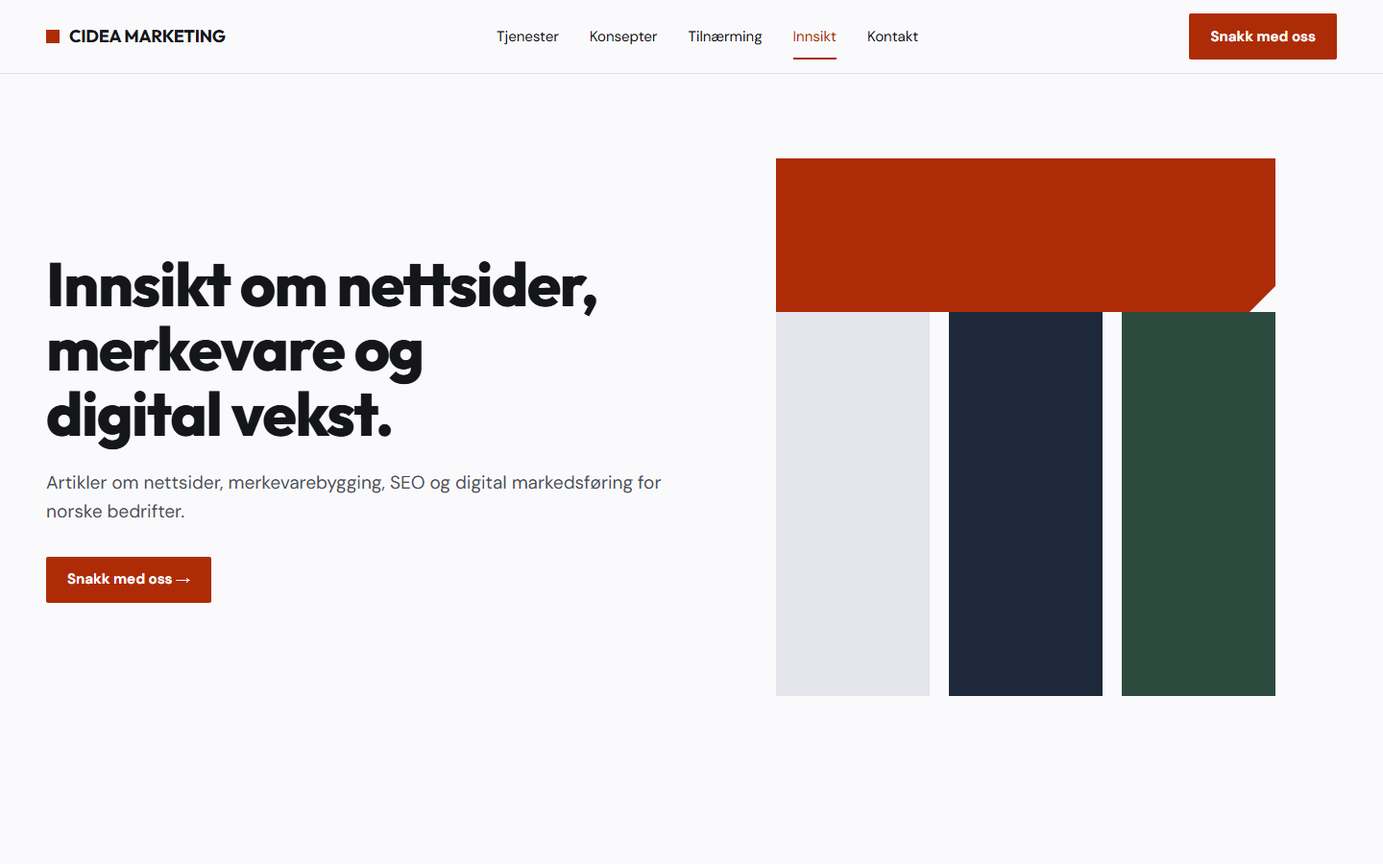
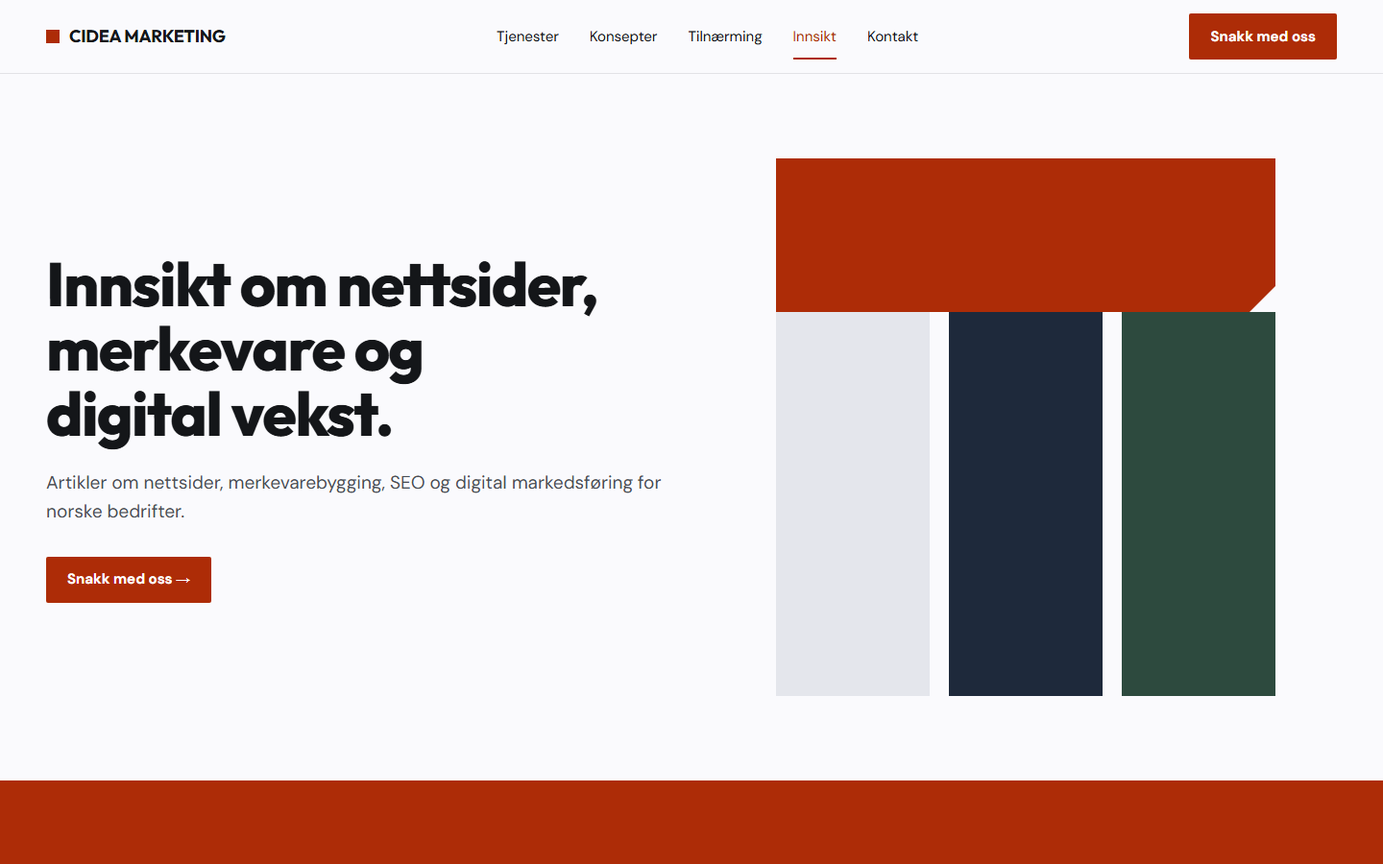
Phase 4.5: full QA (30/30 at 1440+390: contrast, language, CTA, aeoeaa, focus), licences, phase 4 README; CTA copy per ChatGPT decision

Changed region(s): [[0.0, 0.9022, 1.0, 1.0]]

diff --git a/docs/cinematic-pilot/phase4/preview/preview.css b/docs/cinematic-pilot/phase4/preview/preview.css
@@ -20,7 +20,7 @@ nav.hoved a { text-decoration: none; padding: 12px 0; }
 nav.hoved a[aria-current] { color: var(--dyp); box-shadow: inset 0 -2px var(--dyp); }
 .knapp { display: inline-flex; align-items: center; gap: 8px; min-height: 48px; padding: 0 22px; background: var(--dyp); color: var(--hvit); font: 700 15px/1 "DM Sans", sans-serif; text-decoration: none; border-radius: 2px; }
 .knapp:hover { background: var(--dyp-hover); }
-.knapp:focus-visible, a:focus-visible { outline: 3px solid var(--marine); outline-offset: 3px; }
+.knapp:focus-visible, a:focus-visible, button:focus-visible { outline: 3px solid var(--marine); outline-offset: 3px; }
 .lenke { font-weight: 700; color: var(--dyp); text-decoration: none; display: inline-flex; gap: 6px; align-items: center; min-height: 48px; }
 .meny { display: none; min-height: 44px; padding: 0 14px; border: 1px solid rgba(20,22,25,.2); background: var(--hvit); font: 700 14px "DM Sans", sans-serif; }
 .hero .wrap { display: grid; grid-template-columns: 1.05fr 0.95fr; gap: 64px; align-items: center; min-height: 640px; padding-top: 48px; padding-bottom: 48px; }
@@ -43,4 +43,22 @@ nav.hoved a[aria-current] { color: var(--dyp); box-shadow: inset 0 -2px var(--dy
   .hero .kunst .desktop { display: none; }
   .hero .kunst .mobil { display: block; }
   .hero .knapp { width: 100%; justify-content: center; }
+}
+
+/* Avsluttende CTA: dyp terrakotta (hvit tekst 6,69:1), lys knapp. Bunntekst med målt dempet tone. */
+.cta { background: var(--dyp); color: var(--hvit); }
+.cta .wrap { padding-top: 88px; padding-bottom: 88px; display: grid; grid-template-columns: 1.4fr auto; gap: 16px 48px; align-items: end; }
+.cta h2 { color: var(--hvit); font-size: 48px; line-height: 1.08; font-weight: 800; grid-column: 1; }
+.cta p { margin: 0; font-size: 19px; color: var(--hvit); max-width: 36em; grid-column: 1; }
+.cta .knapp.lys { background: var(--hvit); color: var(--dyp); grid-column: 2; grid-row: 1 / span 2; }
+.cta .knapp.lys:hover { background: #F4F5F8; }
+.cta .knapp.lys:focus-visible { outline-color: var(--hvit); }
+footer.bunn .wrap { display: flex; justify-content: space-between; align-items: center; padding-top: 28px; padding-bottom: 28px; }
+footer.bunn small { color: var(--dempet); font-size: 14px; }
+@media (max-width: 760px) {
+  .cta .wrap { grid-template-columns: 1fr; padding-top: 56px; padding-bottom: 56px; }
+  .cta h2 { font-size: 30px; }
+  .cta p { font-size: 17px; }
+  .cta .knapp.lys { grid-column: 1; grid-row: auto; width: 100%; justify-content: center; }
+  footer.bunn .wrap { flex-direction: column; gap: 8px; align-items: flex-start; }
 }

diff --git a/docs/cinematic-pilot/phase4/preview/nettsider.html b/docs/cinematic-pilot/phase4/preview/nettsider.html
@@ -9,4 +9,5 @@
 <div class="tekst"><p class="krumme">Tjenester / Nettsider</p><h1>Nettsider som gjør bedriften enklere å forstå, finne og velge.</h1><p class="ingress">Vi lager strategi, struktur, design og utvikling for en fokusert bedriftsnettside – og kan videreutvikle den etter lansering.</p>
 <div class="handling"><a class="knapp" href="#kontakt">Snakk med oss →</a><a class="lenke" href="#">Hva vi leverer →</a></div></div>
 <div class="kunst"><div class="desktop"><svg xmlns="http://www.w3.org/2000/svg" viewBox="0 0 560 640" role="img" aria-label="Cidea-motiv: Rutenett – liggende flater forskjøvet som sider og skjermer"><rect data-i="0" x="0" y="60" width="400" height="240" fill="#E4E6EC"/><rect data-i="1" x="80" y="200" width="400" height="240" fill="#2D4A3E"/><polygon data-i="2" data-hakk="1" points="160,340 560,340 560,557 517,600 160,600" fill="#1E293B"/><rect data-i="3" x="340" y="0" width="120" height="120" fill="#AD2C07"/></svg></div><div class="mobil"><svg xmlns="http://www.w3.org/2000/svg" viewBox="0 0 390 280" role="img" aria-label="Cidea-motiv: Rutenett – liggende flater forskjøvet som sider og skjermer"><rect data-i="0" x="0" y="0" width="240" height="110" fill="#E4E6EC"/><rect data-i="1" x="60" y="60" width="240" height="110" fill="#2D4A3E"/><polygon data-i="2" data-hakk="1" points="120,120 380,120 380,237 357,260 120,260" fill="#1E293B"/><rect data-i="3" x="280" y="20" width="70" height="70" fill="#AD2C07"/></svg></div></div>
-</div></section></main></body></html>
+</div></section><section class="cta" id="kontakt"><div class="wrap"><h2>Klar for et overbevisende digitalt uttrykk?</h2><p>Fortell oss kort om bedriften og hva dere ønsker hjelp med. Vi tar kontakt på e-post.</p><a class="knapp lys" href="#">Snakk med oss →</a></div></section></main>
+<footer class="bunn"><div class="wrap"><span class="ordmerke">CIDEA MARKETING</span><small>© 2026 Cidea Marketing</small></div></footer></body></html>

diff --git a/docs/cinematic-pilot/phase4/preview/digital-markedsforing.html b/docs/cinematic-pilot/phase4/preview/digital-markedsforing.html
@@ -9,4 +9,5 @@
 <div class="tekst"><p class="krumme">Tjenester / Digital markedsføring</p><h1>Digital markedsføring rundt et tydelig mål.</h1><p class="ingress">Vi lager strategi, innhold og kampanjer og optimaliserer dem rundt et definert kommersielt mål. Annonsebudsjett kommer i tillegg.</p>
 <div class="handling"><a class="knapp" href="#kontakt">Snakk med oss →</a><a class="lenke" href="#">Hva vi leverer →</a></div></div>
 <div class="kunst"><div class="desktop"><svg xmlns="http://www.w3.org/2000/svg" viewBox="0 0 560 640" role="img" aria-label="Cidea-motiv: Spredning – ett mål som fordeles ut i flere kanaler"><rect data-i="0" x="240" y="40" width="280" height="140" fill="#1E293B"/><rect data-i="1" x="240" y="240" width="320" height="140" fill="#AD2C07"/><rect data-i="2" x="240" y="440" width="220" height="140" fill="#2D4A3E"/><polygon data-i="3" data-hakk="1" points="0,0 280,0 280,593 233,640 0,640" fill="#141619"/></svg></div><div class="mobil"><svg xmlns="http://www.w3.org/2000/svg" viewBox="0 0 390 280" role="img" aria-label="Cidea-motiv: Spredning – ett mål som fordeles ut i flere kanaler"><rect data-i="0" x="80" y="10" width="220" height="70" fill="#1E293B"/><rect data-i="1" x="80" y="100" width="310" height="70" fill="#AD2C07"/><rect data-i="2" x="80" y="190" width="180" height="70" fill="#2D4A3E"/><polygon data-i="3" data-hakk="1" points="0,0 100,0 100,263 83,280 0,280" fill="#141619"/></svg></div></div>
-</div></section></main></body></html>
+</div></section><section class="cta" id="kontakt"><div class="wrap"><h2>Klar for et overbevisende digitalt uttrykk?</h2><p>Fortell oss kort om bedriften og hva dere ønsker hjelp med. Vi tar kontakt på e-post.</p><a class="knapp lys" href="#">Snakk med oss →</a></div></section></main>
+<footer class="bunn"><div class="wrap"><span class="ordmerke">CIDEA MARKETING</span><small>© 2026 Cidea Marketing</small></div></footer></body></html>

diff --git a/docs/cinematic-pilot/phase4/preview/forside.html b/docs/cinematic-pilot/phase4/preview/forside.html
@@ -9,4 +9,5 @@
 <div class="tekst"><h1>Nettsider og helhetlig markedsføring som utvikles over tid.</h1><p class="ingress">Vi bygger nettsider, former merkevarer og driver målrettet SEO og digital markedsføring for bedrifter som ønsker kontinuerlig forbedring.</p>
 <div class="handling"><a class="knapp" href="#kontakt">Snakk med oss →</a><a class="lenke" href="#">Se konseptet →</a></div></div>
 <div class="kunst"><div class="desktop"><svg xmlns="http://www.w3.org/2000/svg" viewBox="0 0 560 640" role="img" aria-label="Cidea-motiv: Sammenføyning – flere fagfelt låst sammen rundt én kjerne"><polygon data-i="0" data-hakk="1" points="80,100 460,100 460,457 397,520 80,520" fill="#AD2C07"/><rect data-i="1" x="0" y="380" width="240" height="260" fill="#1E293B"/><rect data-i="2" x="320" y="0" width="240" height="200" fill="#2D4A3E"/><rect data-i="3" x="180" y="220" width="160" height="160" fill="#E4E6EC"/></svg></div><div class="mobil"><svg xmlns="http://www.w3.org/2000/svg" viewBox="0 0 390 280" role="img" aria-label="Cidea-motiv: Sammenføyning – flere fagfelt låst sammen rundt én kjerne"><polygon data-i="0" data-hakk="1" points="90,30 300,30 300,205 265,240 90,240" fill="#AD2C07"/><rect data-i="1" x="0" y="130" width="130" height="150" fill="#1E293B"/><rect data-i="2" x="250" y="0" width="140" height="90" fill="#2D4A3E"/></svg></div></div>
-</div></section></main></body></html>
+</div></section><section class="cta" id="kontakt"><div class="wrap"><h2>Klar for et overbevisende digitalt uttrykk?</h2><p>Fortell oss kort om bedriften og hva dere ønsker hjelp med. Vi tar kontakt på e-post.</p><a class="knapp lys" href="#">Snakk med oss →</a></div></section></main>
+<footer class="bunn"><div class="wrap"><span class="ordmerke">CIDEA MARKETING</span><small>© 2026 Cidea Marketing</small></div></footer></body></html>

diff --git a/docs/cinematic-pilot/phase4/preview/merkevarebygging.html b/docs/cinematic-pilot/phase4/preview/merkevarebygging.html
@@ -9,4 +9,5 @@
 <div class="tekst"><p class="krumme">Tjenester / Merkevarebygging</p><h1>Merkevarebygging som gjør bedriften lettere å kjenne igjen.</h1><p class="ingress">Vi lager et praktisk visuelt fundament med retning for logobruk, typografi, farger og hvordan merkevaren uttrykker seg.</p>
 <div class="handling"><a class="knapp" href="#kontakt">Snakk med oss →</a><a class="lenke" href="#">Hva vi leverer →</a></div></div>
 <div class="kunst"><div class="desktop"><svg xmlns="http://www.w3.org/2000/svg" viewBox="0 0 560 640" role="img" aria-label="Cidea-motiv: Stempel – ett tydelig kjennetegn med et lite merke festet i hjørnet"><rect data-i="0" x="0" y="400" width="200" height="200" fill="#E4E6EC"/><polygon data-i="1" data-hakk="1" points="60,100 500,100 500,467 427,540 60,540" fill="#AD2C07"/><rect data-i="2" x="360" y="20" width="180" height="180" fill="#1E293B"/></svg></div><div class="mobil"><svg xmlns="http://www.w3.org/2000/svg" viewBox="0 0 390 280" role="img" aria-label="Cidea-motiv: Stempel – ett tydelig kjennetegn med et lite merke festet i hjørnet"><rect data-i="0" x="40" y="160" width="100" height="100" fill="#E4E6EC"/><polygon data-i="1" data-hakk="1" points="100,30 320,30 320,213 283,250 100,250" fill="#AD2C07"/><rect data-i="2" x="260" y="0" width="90" height="90" fill="#1E293B"/></svg></div></div>
-</div></section></main></body></html>
+</div></section><section class="cta" id="kontakt"><div class="wrap"><h2>Klar for et overbevisende digitalt uttrykk?</h2><p>Fortell oss kort om bedriften og hva dere ønsker hjelp med. Vi tar kontakt på e-post.</p><a class="knapp lys" href="#">Snakk med oss →</a></div></section></main>
+<footer class="bunn"><div class="wrap"><span class="ordmerke">CIDEA MARKETING</span><small>© 2026 Cidea Marketing</small></div></footer></body></html>

diff --git a/docs/cinematic-pilot/phase4/preview/404.html b/docs/cinematic-pilot/phase4/preview/404.html
@@ -9,4 +9,5 @@
 <div class="tekst"><h1>Vi finner ikke denne siden</h1><p class="ingress">Siden kan være flyttet eller slettet. Gå til forsiden eller ta kontakt med oss.</p>
 <div class="handling"><a class="knapp" href="#kontakt">Snakk med oss →</a><a class="lenke" href="#">Til forsiden →</a></div></div>
 <div class="kunst"><div class="desktop"><svg xmlns="http://www.w3.org/2000/svg" viewBox="0 0 560 640" role="img" aria-label="Cidea-motiv: Forskyvning – ett plan har glidd ut av rutenettet"><rect data-i="0" x="0" y="80" width="240" height="240" fill="#1E293B"/><rect data-i="1" x="240" y="80" width="240" height="240" fill="#2D4A3E"/><rect data-i="2" x="0" y="320" width="240" height="240" fill="#E4E6EC"/><polygon data-i="3" data-hakk="1" points="260,300 520,300 520,517 477,560 260,560" fill="#AD2C07"/></svg></div><div class="mobil"><svg xmlns="http://www.w3.org/2000/svg" viewBox="0 0 390 280" role="img" aria-label="Cidea-motiv: Forskyvning – ett plan har glidd ut av rutenettet"><rect data-i="0" x="0" y="20" width="100" height="120" fill="#1E293B"/><rect data-i="1" x="100" y="20" width="100" height="120" fill="#2D4A3E"/><rect data-i="2" x="0" y="140" width="100" height="120" fill="#E4E6EC"/><polygon data-i="3" data-hakk="1" points="110,130 240,130 240,238 218,260 110,260" fill="#AD2C07"/></svg></div></div>
-</div></section></main></body></html>
+</div></section><section class="cta" id="kontakt"><div class="wrap"><h2>Klar for et overbevisende digitalt uttrykk?</h2><p>Fortell oss kort om bedriften og hva dere ønsker hjelp med. Vi tar kontakt på e-post.</p><a class="knapp lys" href="#">Snakk med oss →</a></div></section></main>
+<footer class="bunn"><div class="wrap"><span class="ordmerke">CIDEA MARKETING</span><small>© 2026 Cidea Marketing</small></div></footer></body></html>

diff --git a/docs/cinematic-pilot/phase4/preview/innsikt.html b/docs/cinematic-pilot/phase4/preview/innsikt.html
@@ -9,4 +9,5 @@
 <div class="tekst"><h1>Innsikt om nettsider, merkevare og digital vekst.</h1><p class="ingress">Artikler om nettsider, merkevarebygging, SEO og digital markedsføring for norske bedrifter.</p>
 <div class="handling"><a class="knapp" href="#kontakt">Snakk med oss →</a></div></div>
 <div class="kunst"><div class="desktop"><svg xmlns="http://www.w3.org/2000/svg" viewBox="0 0 560 640" role="img" aria-label="Cidea-motiv: Spalter – kolonner under en felles overskrift"><rect data-i="0" x="0" y="160" width="160" height="440" fill="#E4E6EC"/><rect data-i="1" x="180" y="80" width="160" height="520" fill="#1E293B"/><rect data-i="2" x="360" y="200" width="160" height="400" fill="#2D4A3E"/><polygon data-i="3" data-hakk="1" points="0,40 520,40 520,173 493,200 0,200" fill="#AD2C07"/></svg></div><div class="mobil"><svg xmlns="http://www.w3.org/2000/svg" viewBox="0 0 390 280" role="img" aria-label="Cidea-motiv: Spalter – kolonner under en felles overskrift"><rect data-i="0" x="0" y="80" width="100" height="200" fill="#E4E6EC"/><rect data-i="1" x="120" y="60" width="100" height="220" fill="#1E293B"/><rect data-i="2" x="240" y="80" width="100" height="200" fill="#2D4A3E"/><polygon data-i="3" data-hakk="1" points="0,0 360,0 360,75 345,90 0,90" fill="#AD2C07"/></svg></div></div>
-</div></section></main></body></html>
+</div></section><section class="cta" id="kontakt"><div class="wrap"><h2>Klar for et overbevisende digitalt uttrykk?</h2><p>Fortell oss kort om bedriften og hva dere ønsker hjelp med. Vi tar kontakt på e-post.</p><a class="knapp lys" href="#">Snakk med oss →</a></div></section></main>
+<footer class="bunn"><div class="wrap"><span class="ordmerke">CIDEA MARKETING</span><small>© 2026 Cidea Marketing</small></div></footer></body></html>

diff --git a/docs/cinematic-pilot/phase4/preview/seo.html b/docs/cinematic-pilot/phase4/preview/seo.html
@@ -9,4 +9,5 @@
 <div class="tekst"><p class="krumme">Tjenester / SEO</p><h1>SEO som bygger synlighet over tid.</h1><p class="ingress">Vi jobber løpende med teknisk helse, nyttig innhold og søkeintensjon, og måler synligheten underveis.</p>
 <div class="handling"><a class="knapp" href="#kontakt">Snakk med oss →</a><a class="lenke" href="#">Hva vi leverer →</a></div></div>
 <div class="kunst"><div class="desktop"><svg xmlns="http://www.w3.org/2000/svg" viewBox="0 0 560 640" role="img" aria-label="Cidea-motiv: Trapp – synlighet som bygges trinn for trinn"><rect data-i="0" x="0" y="440" width="180" height="200" fill="#E4E6EC"/><rect data-i="1" x="140" y="300" width="180" height="340" fill="#1E293B"/><polygon data-i="2" data-hakk="1" points="280,100 560,100 560,593 513,640 280,640" fill="#2D4A3E"/></svg></div><div class="mobil"><svg xmlns="http://www.w3.org/2000/svg" viewBox="0 0 390 280" role="img" aria-label="Cidea-motiv: Trapp – synlighet som bygges trinn for trinn"><rect data-i="0" x="0" y="170" width="120" height="110" fill="#E4E6EC"/><rect data-i="1" x="90" y="90" width="120" height="190" fill="#1E293B"/><polygon data-i="2" data-hakk="1" points="180,0 380,0 380,247 347,280 180,280" fill="#2D4A3E"/></svg></div></div>
-</div></section></main></body></html>
+</div></section><section class="cta" id="kontakt"><div class="wrap"><h2>Klar for et overbevisende digitalt uttrykk?</h2><p>Fortell oss kort om bedriften og hva dere ønsker hjelp med. Vi tar kontakt på e-post.</p><a class="knapp lys" href="#">Snakk med oss →</a></div></section></main>
+<footer class="bunn"><div class="wrap"><span class="ordmerke">CIDEA MARKETING</span><small>© 2026 Cidea Marketing</small></div></footer></body></html>

diff --git a/docs/cinematic-pilot/phase4/preview/konsepter.html b/docs/cinematic-pilot/phase4/preview/konsepter.html
@@ -9,4 +9,5 @@
 <div class="tekst"><h1>Konseptuelle formstudier og digitale utforskninger.</h1><p class="ingress">Konseptene viser hvordan vi utforsker visuelle løsninger. De er ikke kundeprosjekter.</p>
 <div class="handling"><a class="knapp" href="#kontakt">Snakk med oss →</a><a class="lenke" href="#">Se konseptet →</a></div></div>
 <div class="kunst"><div class="desktop"><svg xmlns="http://www.w3.org/2000/svg" viewBox="0 0 560 640" role="img" aria-label="Cidea-motiv: Diagram – regelen selv: plan, sammenheng og ett hakk"><rect data-i="0" x="40" y="40" width="400" height="400" fill="#1E293B"/><rect data-i="1" x="80" y="400" width="160" height="160" fill="#AD2C07"/><polygon data-i="2" data-hakk="1" points="300,280 560,280 560,577 517,620 300,620" fill="#2D4A3E"/></svg></div><div class="mobil"><svg xmlns="http://www.w3.org/2000/svg" viewBox="0 0 390 280" role="img" aria-label="Cidea-motiv: Diagram – regelen selv: plan, sammenheng og ett hakk"><rect data-i="0" x="0" y="0" width="180" height="200" fill="#1E293B"/><rect data-i="1" x="40" y="180" width="80" height="80" fill="#AD2C07"/><polygon data-i="2" data-hakk="1" points="140,80 320,80 320,230 290,260 140,260" fill="#2D4A3E"/></svg></div></div>
-</div></section></main></body></html>
+</div></section><section class="cta" id="kontakt"><div class="wrap"><h2>Klar for et overbevisende digitalt uttrykk?</h2><p>Fortell oss kort om bedriften og hva dere ønsker hjelp med. Vi tar kontakt på e-post.</p><a class="knapp lys" href="#">Snakk med oss →</a></div></section></main>
+<footer class="bunn"><div class="wrap"><span class="ordmerke">CIDEA MARKETING</span><small>© 2026 Cidea Marketing</small></div></footer></body></html>

diff --git a/docs/cinematic-pilot/phase4/preview/tilnaerming.html b/docs/cinematic-pilot/phase4/preview/tilnaerming.html
@@ -9,4 +9,5 @@
 <div class="tekst"><h1>Slik jobber vi – fra første avklaring til videreutvikling.</h1><p class="ingress">Vi avklarer behov, designer og utvikler løsningen, og kan videreutvikle den etter lansering.</p>
 <div class="handling"><a class="knapp" href="#kontakt">Snakk med oss →</a><a class="lenke" href="#">Les om nettsider →</a></div></div>
 <div class="kunst"><div class="desktop"><svg xmlns="http://www.w3.org/2000/svg" viewBox="0 0 560 640" role="img" aria-label="Cidea-motiv: Bro – to parter forbundet over tid"><rect data-i="0" x="0" y="120" width="200" height="480" fill="#1E293B"/><rect data-i="1" x="120" y="280" width="320" height="140" fill="#AD2C07"/><polygon data-i="2" data-hakk="1" points="340,40 560,40 560,543 523,580 340,580" fill="#2D4A3E"/></svg></div><div class="mobil"><svg xmlns="http://www.w3.org/2000/svg" viewBox="0 0 390 280" role="img" aria-label="Cidea-motiv: Bro – to parter forbundet over tid"><rect data-i="0" x="0" y="40" width="100" height="220" fill="#1E293B"/><rect data-i="1" x="60" y="100" width="240" height="70" fill="#AD2C07"/><polygon data-i="2" data-hakk="1" points="260,10 390,10 390,238 368,260 260,260" fill="#2D4A3E"/></svg></div></div>
-</div></section></main></body></html>
+</div></section><section class="cta" id="kontakt"><div class="wrap"><h2>Klar for et overbevisende digitalt uttrykk?</h2><p>Fortell oss kort om bedriften og hva dere ønsker hjelp med. Vi tar kontakt på e-post.</p><a class="knapp lys" href="#">Snakk med oss →</a></div></section></main>
+<footer class="bunn"><div class="wrap"><span class="ordmerke">CIDEA MARKETING</span><small>© 2026 Cidea Marketing</small></div></footer></body></html>

diff --git a/docs/cinematic-pilot/phase4/preview/kontakt.html b/docs/cinematic-pilot/phase4/preview/kontakt.html
@@ -9,4 +9,5 @@
 <div class="tekst"><h1>Ta kontakt for en uforpliktende fagprat.</h1><p class="ingress">Skriv til oss om nettsider, merkevarebygging, SEO eller digital markedsføring for bedriften.</p>
 <div class="handling"></div></div>
 <div class="kunst"><div class="desktop"><svg xmlns="http://www.w3.org/2000/svg" viewBox="0 0 560 640" role="img" aria-label="Cidea-motiv: Åpning – en dør inn i en større flate"><rect data-i="0" x="0" y="80" width="440" height="520" fill="#1E293B"/><rect data-i="1" x="120" y="240" width="180" height="360" fill="#E4E6EC"/><polygon data-i="2" data-hakk="1" points="300,0 560,0 560,237 517,280 300,280" fill="#AD2C07"/></svg></div><div class="mobil"><svg xmlns="http://www.w3.org/2000/svg" viewBox="0 0 390 280" role="img" aria-label="Cidea-motiv: Åpning – en dør inn i en større flate"><rect data-i="0" x="0" y="20" width="240" height="260" fill="#1E293B"/><rect data-i="1" x="60" y="110" width="80" height="170" fill="#E4E6EC"/><polygon data-i="2" data-hakk="1" points="200,0 380,0 380,117 357,140 200,140" fill="#AD2C07"/></svg></div></div>
-</div></section></main></body></html>
+</div></section></main>
+<footer class="bunn"><div class="wrap"><span class="ordmerke">CIDEA MARKETING</span><small>© 2026 Cidea Marketing</small></div></footer></body></html>

diff --git a/docs/cinematic-pilot/phase4/QA.md b/docs/cinematic-pilot/phase4/QA.md
@@ -1,0 +1,93 @@
+# Fase 4.5 – visuell, språklig og lisensmessig QA
+
+**Dato:** 2026-10-16 · **Kostnad:** 0 NOK, 0 Stitch-kreditter · **Verktøy:** [`tools/qa.mjs`](tools/qa.mjs), [`tools/validate-motif.mjs`](tools/validate-motif.mjs), [`tools/audit-screens.mjs`](tools/audit-screens.mjs), [`motion/test.mjs`](motion/test.mjs) (Playwright/Chromium)
+**Omfang:** alle 15 forhåndsvisninger i `preview/` og bevegelsesprototypen `motion/index.html`, hver i 1440 og 390 px (30 kontroller).
+
+## 1. Akseptkriterier fra AUDIT.md
+
+| ID | Kriterium | Resultat | Bevis |
+|---|---|---|---|
+| K1 | ≥ 4 markant ulike hero-komposisjoner, ingen gjenbruk på tvers av sidetyper | **OK:** 10 unike fingeravtrykk (før: én desktopgeometri på 8 skjermer) | `ASSETS.md`, [variants-overview.png](variants-overview.png) |
+| K2 | Alle nye SVG-er følger regelen | **OK:** 28/28 (+ 10/10 fra fase 3); negativ kontroll fanger 6/6 feil | `AUDIT.md` § 1 |
+| K3 | ≤ 2 KB per SVG | **OK:** 304–510 B | `ASSETS.md` |
+| K4 | ≤ 3 rammede lyse bokser per side | **OK:** 0 på alle forhåndsvisninger (før: opptil 12) | `ASSETS.md` § Målt effekt |
+| K5 | Mobil: ingen overflow; ingen seksjon > 900 px | **Delvis:** overflow 0 px overalt. Seksjoner med 6 leveranser (~1 100 px) og konsept-familien (~1 500 px) er lengre enn 900 px, men kortene er mye lettere (leveransekort 143 px mot 396–485 px før) | `ASSETS.md` – **til vurdering** |
+| K6 | 0 tekstelementer under WCAG AA | **OK:** 0 avvik i 30 kontroller; laveste ratio 6,42:1 | tabellen under |
+| K7 | Bevegelse ≤ 600 ms, transform/opacity, uten JS, redusert bevegelse, fokus | **OK:** 580 ms, 12/12 tester | [motion/TEST-RESULTATER.md](motion/TEST-RESULTATER.md) |
+| K8 | Ingen layout per bilde på mobil (4× struping) | **OK** etter lagdeling (før: +16) | T7a/T7b |
+| K9 | Norsk, «Nettsider», ingen nummerering, ny CTA-tekst | **OK** | tabellen under |
+| K10 | Kilde og lisens for hver fil | **OK med forbehold** for Stitch-vilkår | § 4 |
+
+## 2. Samlet nettlesermåling (alle sider, 1440 og 390)
+
+Kontrast måles for hvert synlige tekstelement mot nærmeste ugjennomsiktige bakgrunn (WCAG 2.2: 4,5:1 normal tekst, 3:1 stor tekst). «Fokus» = Tab gjennom inntil seks elementer, alle må ha synlig fokusring (≥ 2 px).
+
+| Side | Bredde | Kontrast: elementer / laveste / avvik | Overflow | Forbudt/engelsk/nummerering | CTA-tekst | æøå i Outfit + DM Sans | Fokus (Tab) |
+|---|---|---|---|---|---|---|---|
+| 404 | 1440 | 16 / min 6.42 / 0 under AA | 0 px | ingen | OK | OK | OK (6) |
+| 404 | 390 | 11 / min 6.42 / 0 under AA | 0 px | ingen | OK | OK | OK (5) |
+| digital-markedsforing | 1440 | 17 / min 6.42 / 0 under AA | 0 px | ingen | OK | OK | OK (6) |
+| digital-markedsforing | 390 | 12 / min 6.42 / 0 under AA | 0 px | ingen | OK | OK | OK (5) |
+| forside | 1440 | 16 / min 6.42 / 0 under AA | 0 px | ingen | OK | OK | OK (6) |
+| forside | 390 | 11 / min 6.42 / 0 under AA | 0 px | ingen | OK | OK | OK (5) |
+| innsikt-liste | 1440 | 25 / min 6.42 / 0 under AA | 0 px | ingen | – | OK | OK (6) |
+| innsikt-liste | 390 | 20 / min 6.42 / 0 under AA | 0 px | ingen | – | OK | OK (6) |
+| innsikt | 1440 | 15 / min 6.42 / 0 under AA | 0 px | ingen | OK | OK | OK (6) |
+| innsikt | 390 | 10 / min 6.69 / 0 under AA | 0 px | ingen | OK | OK | OK (4) |
+| konsept-detalj | 1440 | 41 / min 6.42 / 0 under AA | 0 px | ingen | – | OK | OK (6) |
+| konsept-detalj | 390 | 36 / min 8.03 / 0 under AA | 0 px | ingen | – | OK | OK (2) |
+| konsepter | 1440 | 16 / min 6.42 / 0 under AA | 0 px | ingen | OK | OK | OK (6) |
+| konsepter | 390 | 11 / min 6.42 / 0 under AA | 0 px | ingen | OK | OK | OK (5) |
+| kontakt | 1440 | 11 / min 6.42 / 0 under AA | 0 px | ingen | – | OK | OK (6) |
+| kontakt | 390 | 6 / min 8.03 / 0 under AA | 0 px | ingen | – | OK | OK (2) |
+| leveranser-digital-markedsforing | 1440 | 21 / min 6.42 / 0 under AA | 0 px | ingen | – | OK | OK (6) |
+| leveranser-digital-markedsforing | 390 | 16 / min 8.03 / 0 under AA | 0 px | ingen | – | OK | OK (2) |
+| leveranser-merkevarebygging | 1440 | 21 / min 6.42 / 0 under AA | 0 px | ingen | – | OK | OK (6) |
+| leveranser-merkevarebygging | 390 | 16 / min 6.69 / 0 under AA | 0 px | ingen | – | OK | OK (2) |
+| merkevarebygging | 1440 | 17 / min 6.42 / 0 under AA | 0 px | ingen | OK | OK | OK (6) |
+| merkevarebygging | 390 | 12 / min 6.42 / 0 under AA | 0 px | ingen | OK | OK | OK (5) |
+| nettsider | 1440 | 17 / min 6.42 / 0 under AA | 0 px | ingen | OK | OK | OK (6) |
+| nettsider | 390 | 12 / min 6.42 / 0 under AA | 0 px | ingen | OK | OK | OK (5) |
+| seo | 1440 | 17 / min 6.42 / 0 under AA | 0 px | ingen | OK | OK | OK (6) |
+| seo | 390 | 12 / min 6.42 / 0 under AA | 0 px | ingen | OK | OK | OK (5) |
+| tilnaerming | 1440 | 16 / min 6.42 / 0 under AA | 0 px | ingen | OK | OK | OK (6) |
+| tilnaerming | 390 | 11 / min 6.42 / 0 under AA | 0 px | ingen | OK | OK | OK (5) |
+| index | 1440 | 31 / min 6.42 / 0 under AA | 0 px | ingen | – | OK | OK (6) |
+| index | 390 | 26 / min 6.42 / 0 under AA | 0 px | ingen | – | OK | OK (6) |
+
+30 kontroller, 0 med avvik
+
+**Funn under QA (rettet):** første kjøring viste manglende synlig fokus på mobil i 15 av 15 sider. Knappen «Meny» (`<button>`) hadde ingen `:focus-visible`-stil. Rettet i `preview/preview.css` (`button:focus-visible`), deretter 30/30 OK.
+
+## 3. Språk og tekst
+
+| Kontroll | Resultat |
+|---|---|
+| Forbudte ord (Nettsteder, kompromissløs, lynrask, aldri stagnerer, Les mer, fast kontaktperson, autoritær, gratis, stabilitet) | 0 forekomster |
+| Engelske etiketter (Read more, Learn more, Contact us, Services, Insights, Home, Submit, Explore …) | 0 forekomster |
+| Dekorativ nummerering (01/02, Fase 1, Steg 1) | 0 forekomster |
+| «Nettsider» som tjenestenavn | Brukt konsekvent |
+| æøå | Begge selvhostede fonter dekker æøåÆØÅ (`document.fonts.check`), og alle sider inneholder æøå i synlig tekst |
+| Avsluttende CTA | «Klar for et overbevisende digitalt uttrykk?» / «Fortell oss kort om bedriften og hva dere ønsker hjelp med. Vi tar kontakt på e-post.» / «Snakk med oss» → `/kontakt`, på alle 9 sider med CTA. **Løftet «Vi tar kontakt» brukes live først når skjemamottak er testet (fase 6).** |
+| Tilnærming H1 | «Slik jobber vi – fra første avklaring til videreutvikling.» (ChatGPT-vedtak) |
+| Konsepter | Ingress «Konseptene viser hvordan vi utforsker visuelle løsninger. De er ikke kundeprosjekter.» Seksjonsoverskriften «Hva er et konsept?» innføres i implementeringen (fase 5) |
+| Tekstrettelser i leveransetekster | «autoritært» → «tydelig»; «gir størst effekt» → «passer målet» (`ASSETS.md`) |
+| Tiltaleform | «dere» brukt i nye tekster (CTA, tjenesteoverskrift i prototypen). Eksisterende godkjente setninger med «du/din» gjennomgås ved implementering |
+
+## 4. Rettigheter og lisenser
+
+| Ressurs | Status | Grunnlag |
+|---|---|---|
+| Outfit, DM Sans | **OK:** SIL Open Font License 1.1, selvhostet; lisensfiler ligger ved | `fonts/OFL-Outfit.txt`, `fonts/OFL-DM-Sans.txt` (fra Fontsource-pakkene, npm) |
+| Ikoner | Ingen ikonfont brukt i fase 4 (piler er teksttegnet «→»). Material Symbols (Apache 2.0) fra fase 3-skissene trengs ikke; hvis brukt senere, legges lisensmerknad ved | – |
+| Egne SVG-er (`assets/svg/`, 28 filer) | Egen kode og geometri (`assets/generate.mjs`) | `ASSETS.md` |
+| Opprinnelsen til motivet | Idéen kom fra en Google Stitch-skisse (fase 2–3). Googles generelle vilkår sier at Google ikke krever eierskap til innhold generert av tjenestene, men kan generere lignende innhold for andre. **Stitch-spesifikke vilkår eller Google Labs-tilleggsvilkår er ikke funnet eller verifisert av Claude.** | **Eier må bekrefte** gjeldende vilkår for kontoen før publisering. Det er ikke antatt full rettighetsoverføring |
+| Fotografi, AI-bilder, tredjepartsgrafikk | Ingen | – |
+| Ordmerke | Midlertidig tekst «CIDEA MARKETING», ikke en godkjent logo | Eier må bekrefte navn/varemerke |
+
+## 5. Gjenstår til ChatGPT og bruker
+
+1. **K5:** godta lange listeseksjoner på mobil med lette kort, eller kreve «vis flere»/kortere lister i implementeringen?
+2. Godkjenne de ti komposisjonene og koblingen side ↔ idé (`ASSETS.md`).
+3. Godkjenne bevegelsene og varighetene (`motion/README.md`).
+4. Eierfakta før lansering (uendret fra fase 3): selskapsnavn, orgnr, adresse, kontaktmottak, lagringstid, logo/varemerke, Stitch-vilkår.
